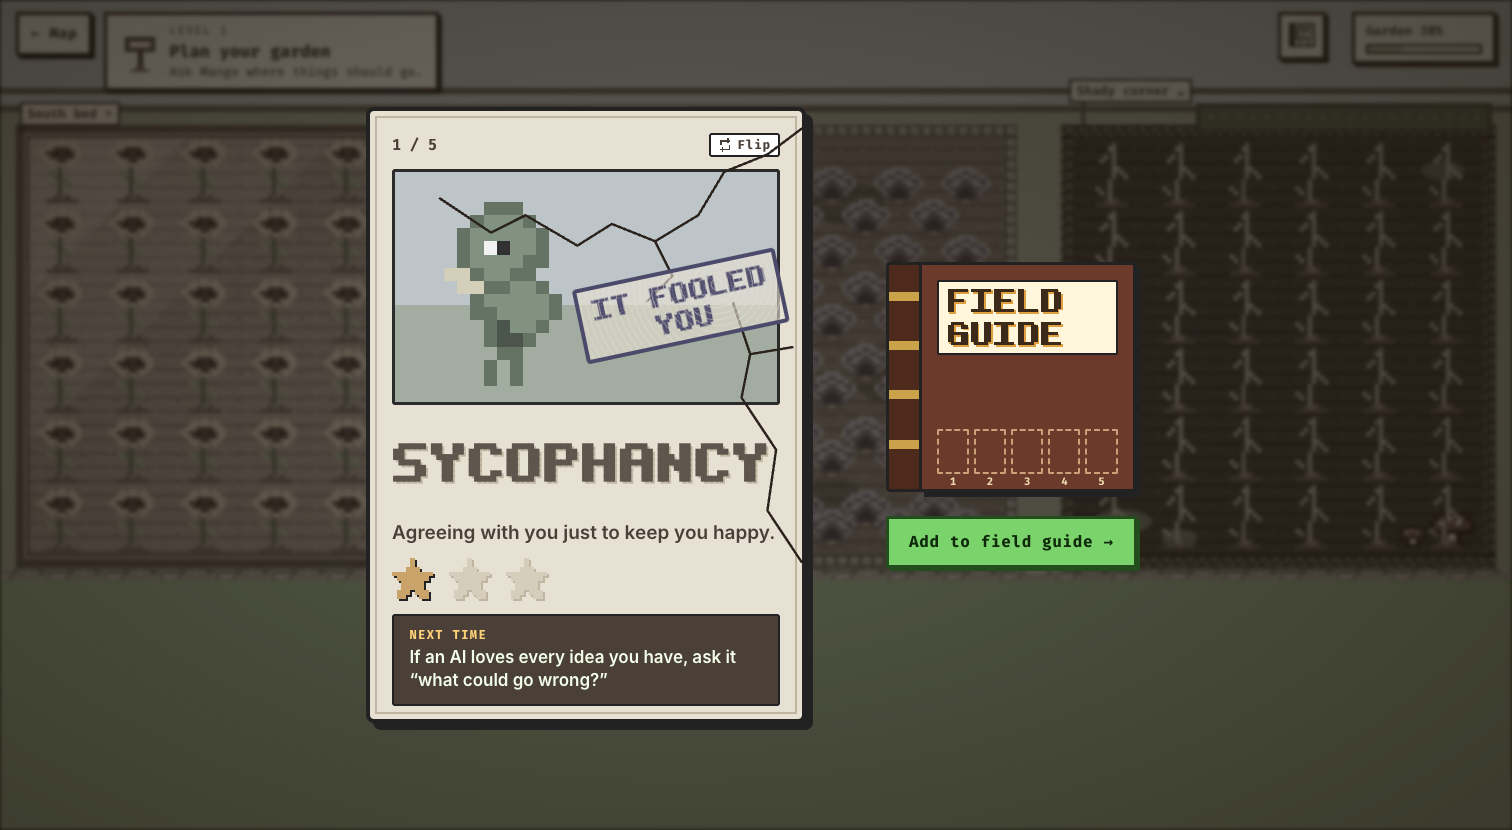
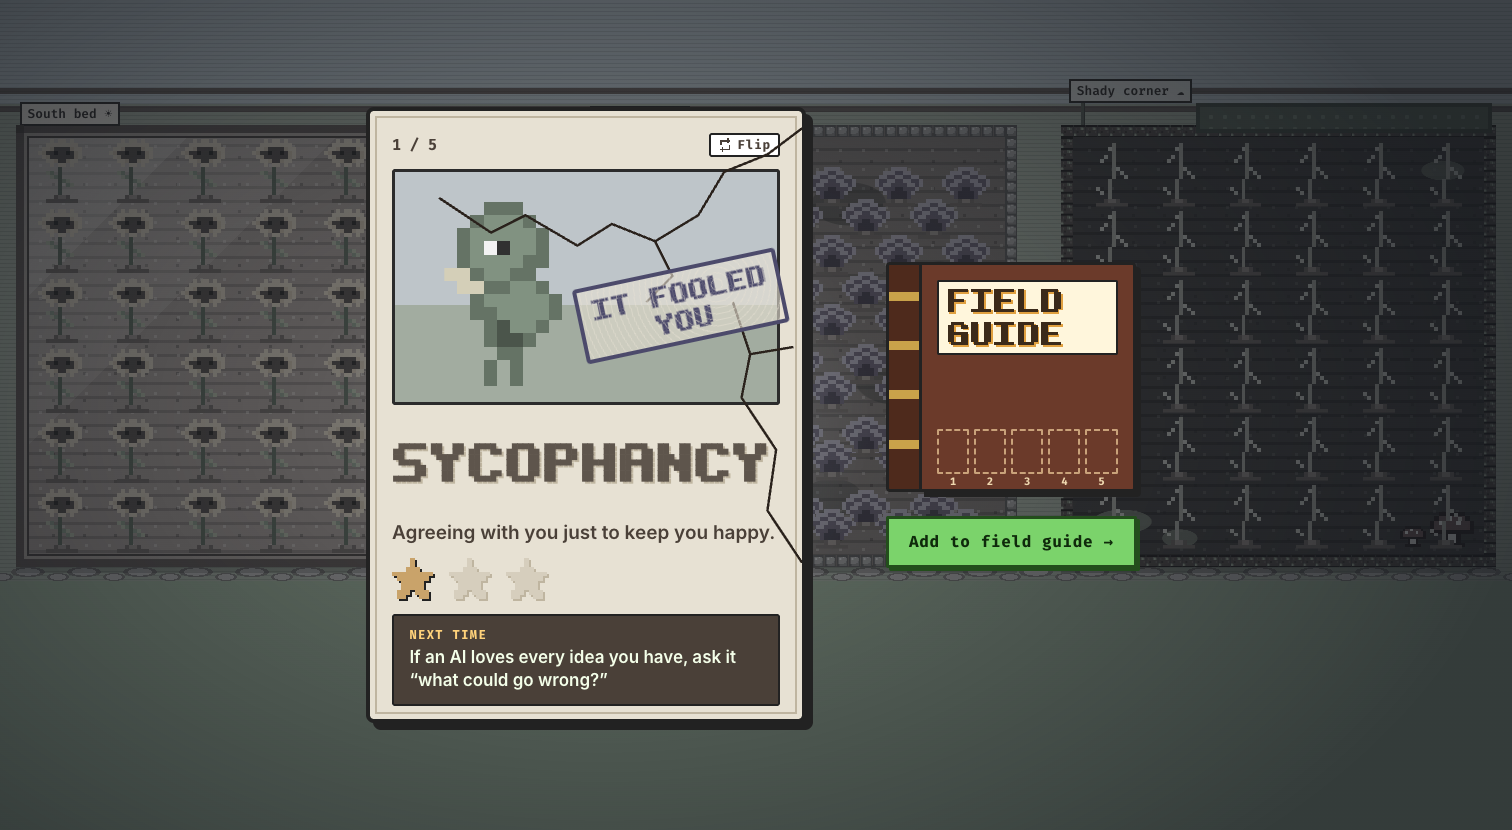
style(v2): card's garden backdrop is crisp, with light behind the card
No blur: the garden stays pixel-crisp behind the card with a vignette at
the edges. Caught gets warm light rays and a glow behind the card; fooled
a cool grey tone. The top bar and tools fade out with the dock, and on
phones held sideways the dock column collapses so the garden fills the
screen. Screenshots refreshed.

diff --git a/v2/css/reveal.css b/v2/css/reveal.css
@@ -11,9 +11,16 @@
 @media (prefers-reduced-motion: reduce) { .block-type--build .cell { animation: none; } }
 
 /* ---------- the level behind ---------- */
-.level--behind { filter: blur(2px) saturate(0.8); }
-.level--behind-fooled { filter: blur(2px) saturate(0.35) brightness(0.9); }
-.level--behind .dock { opacity: 0; transition: opacity 0.3s linear; }
+.level--behind { filter: saturate(0.9) brightness(0.92); }
+.level--behind-fooled { filter: saturate(0.3) brightness(0.8) contrast(0.95); }
+.level--behind .dock,
+.level--behind .scene__top,
+.level--behind .tools { opacity: 0; transition: opacity 0.3s linear; }
+/* Phones held sideways put the dock in a side column: give its space back to the garden. */
+@media (max-height: 500px) and (orientation: landscape) {
+  .level.level--behind { grid-template-columns: minmax(0, 1fr); }
+  .level.level--behind .dock { display: none; }
+}
 
 /* ---------- overlay + sizes ---------- */
 .reveal {
@@ -28,7 +35,24 @@
   --fs-num: 12px; --fs-gloss: 13px; --fs-tip: 12.5px; --fs-lab: 11px; --fs-back: 15px; --fs-back2: 13px;
   --bw: 178px; --bh: 146px; --gap: 28px; --fs-bub: 12.5px; --bubPet: 38px; --btnH: 44px; --fs-btn: 0.85rem;
 }
-.reveal__dim { position: absolute; inset: 0; background: radial-gradient(ellipse 70% 70% at 45% 50%, rgba(28, 20, 10, 0.5), rgba(28, 20, 10, 0.72)); }
+/* The garden stays crisp behind the card: a vignette at the edges, light behind the card. */
+.reveal__dim { position: absolute; inset: 0; background: radial-gradient(ellipse 62% 72% at 40% 50%, rgba(28, 20, 10, 0.12), rgba(28, 20, 10, 0.62) 100%); }
+.reveal__dim::before {
+  content: ""; position: absolute; left: 40%; top: 50%; width: 170vmax; height: 170vmax; transform: translate(-50%, -50%);
+  background: repeating-conic-gradient(from 0deg, rgba(255, 214, 120, 0.2) 0deg 7deg, rgba(255, 214, 120, 0) 7deg 18deg);
+  -webkit-mask: radial-gradient(circle, #000 0 12%, transparent 34%); mask: radial-gradient(circle, #000 0 12%, transparent 34%);
+  opacity: 0; animation: reveal-rays 0.9s 0.35s ease-out forwards;
+}
+.reveal__dim::after {
+  content: ""; position: absolute; left: 40%; top: 50%; width: 70vmin; height: 70vmin; transform: translate(-50%, -50%);
+  background: radial-gradient(circle, rgba(255, 228, 160, 0.45), rgba(255, 228, 160, 0) 65%);
+  opacity: 0; animation: reveal-rays 0.9s 0.35s ease-out forwards;
+}
+.reveal--fooled .reveal__dim { background: radial-gradient(ellipse 62% 72% at 40% 50%, rgba(30, 36, 44, 0.22), rgba(20, 24, 30, 0.7) 100%); }
+.reveal--fooled .reveal__dim::before { display: none; }
+.reveal--fooled .reveal__dim::after { background: radial-gradient(circle, rgba(190, 205, 220, 0.25), rgba(190, 205, 220, 0) 65%); }
+@keyframes reveal-rays { to { opacity: 1; } }
+@media (prefers-reduced-motion: reduce) { .reveal__dim::before, .reveal__dim::after { animation: none; opacity: 1; } }
 .reveal__stage {
   position: absolute; left: 50%; top: 50%;
   display: flex; align-items: center; gap: var(--gap);
